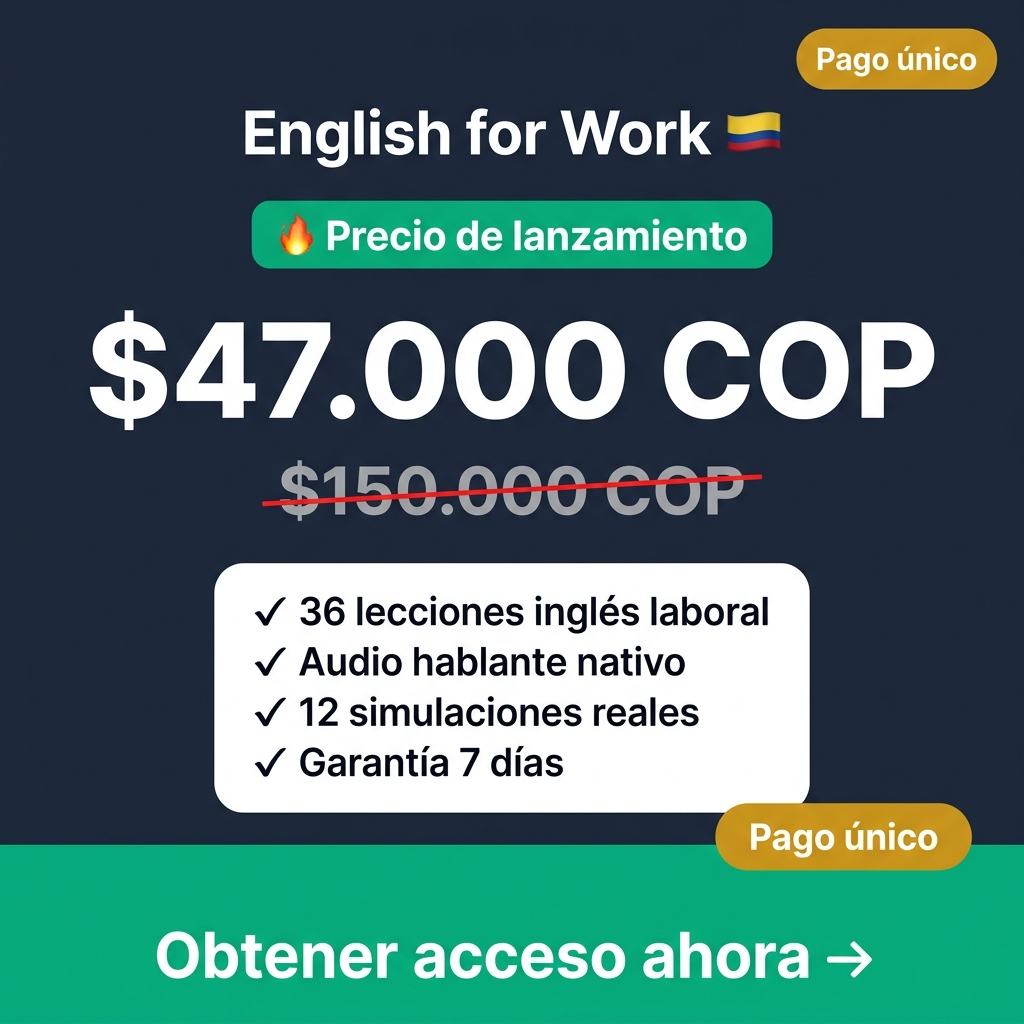
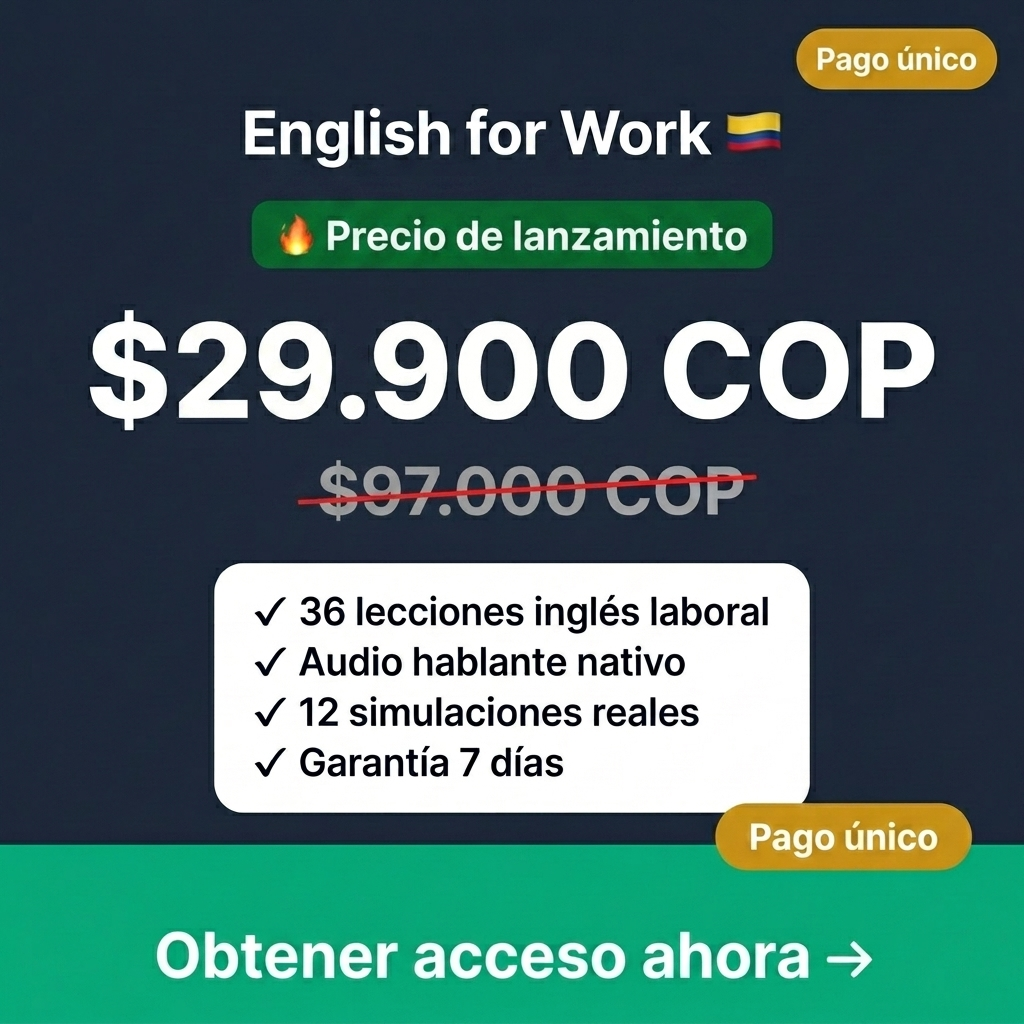
feat: cambiar precio de lanzamiento de .000 a .900 COP (tachado .000)

diff --git a/public/ingles-para-trabajo/index.html b/public/ingles-para-trabajo/index.html
@@ -1,4 +1,4 @@
-<!doctype html>
+<!doctype html>
 <html lang="es">
 <head>
 <meta charset="UTF-8">
@@ -26,10 +26,10 @@ setTimeout(function(){fbq('track','ViewContent',{content_name:'English for Work'
 <div class="lpb-sticky" id="sticky">
   <div class="lpb-sticky-inner">
     <div class="lpb-sticky-price">
-      <span class="lpb-sticky-old">$150.000</span>
-      <span class="lpb-sticky-current">$47.000</span>
+      <span class="lpb-sticky-old">$97.000</span>
+      <span class="lpb-sticky-current">$29.900</span>
     </div>
-    <a href="https://pay.hotmart.com/V105122662R" target="_blank" rel="noopener" class="lpb-btn-cta lpb-btn-sm" onclick="fbq('track','InitiateCheckout',{value:47000,currency:'COP'})">Acceder ahora &rarr;</a>
+    <a href="https://pay.hotmart.com/V105122662R" target="_blank" rel="noopener" class="lpb-btn-cta lpb-btn-sm" onclick="fbq('track','InitiateCheckout',{value:29900,currency:'COP'})">Acceder ahora &rarr;</a>
   </div>
 </div>
 
@@ -72,9 +72,9 @@ setTimeout(function(){fbq('track','ViewContent',{content_name:'English for Work'
         </ul>
         <div class="lpb-hpc-right">
           <span class="lpb-hpc-label">Pago único</span>
-          <span class="lpb-hpc-price">$47.000 <em>COP</em></span>
+          <span class="lpb-hpc-price">$29.900 <em>COP</em></span>
           <span class="lpb-hpc-access">Acceso de por vida</span>
-          <a href="https://pay.hotmart.com/V105122662R" target="_blank" rel="noopener" class="lpb-btn-cta lpb-hpc-btn" onclick="fbq('track','InitiateCheckout',{value:47000,currency:'COP'})">Quiero acceder &rarr;</a>
+          <a href="https://pay.hotmart.com/V105122662R" target="_blank" rel="noopener" class="lpb-btn-cta lpb-hpc-btn" onclick="fbq('track','InitiateCheckout',{value:29900,currency:'COP'})">Quiero acceder &rarr;</a>
         </div>
       </div>
       <p class="lpb-hpc-secure">🔒
@@ -148,12 +148,12 @@ setTimeout(function(){fbq('track','ViewContent',{content_name:'English for Work'
         </ul></div>
         <div class="lpb-price-amount">
           <span class="lpb-price-label">Pago único</span>
-          <div class="lpb-price-original">$150.000</div>
-          <div class="lpb-price-current">$47.000 <span class="lpb-price-currency">COP</span></div>
+          <div class="lpb-price-original">$97.000</div>
+          <div class="lpb-price-current">$29.900 <span class="lpb-price-currency">COP</span></div>
           <span class="lpb-price-access">Acceso de por vida</span>
         </div>
       </div>
-      <a href="https://pay.hotmart.com/V105122662R" target="_blank" rel="noopener" class="lpb-btn-cta lpb-btn-full" onclick="fbq('track','InitiateCheckout',{value:47000,currency:'COP'})">Quiero acceder ahora &rarr;</a>
+      <a href="https://pay.hotmart.com/V105122662R" target="_blank" rel="noopener" class="lpb-btn-cta lpb-btn-full" onclick="fbq('track','InitiateCheckout',{value:29900,currency:'COP'})">Quiero acceder ahora &rarr;</a>
       <div class="lpb-payment-secure"><span>🔒 Pago 100% seguro</span></div>
       <div class="lpb-payment-logos">
         <img src="/paymentmethods/visa-mastercard.png" alt="Visa Mastercard" width="80" height="24" loading="lazy">
@@ -179,7 +179,7 @@ setTimeout(function(){fbq('track','ViewContent',{content_name:'English for Work'
   <div class="lpb-container" style="text-align:center">
     <h2 class="lpb-h2">Tu próximo trabajo pide inglés.</h2>
     <p class="lpb-sub">No dejes que el inglés sea lo que te detenga.</p>
-    <a href="https://pay.hotmart.com/V105122662R" target="_blank" rel="noopener" class="lpb-btn-cta" onclick="fbq('track','InitiateCheckout',{value:47000,currency:'COP'})">Empezar ahora &rarr;</a>
+    <a href="https://pay.hotmart.com/V105122662R" target="_blank" rel="noopener" class="lpb-btn-cta" onclick="fbq('track','InitiateCheckout',{value:29900,currency:'COP'})">Empezar ahora &rarr;</a>
   </div>
 </section>
 
